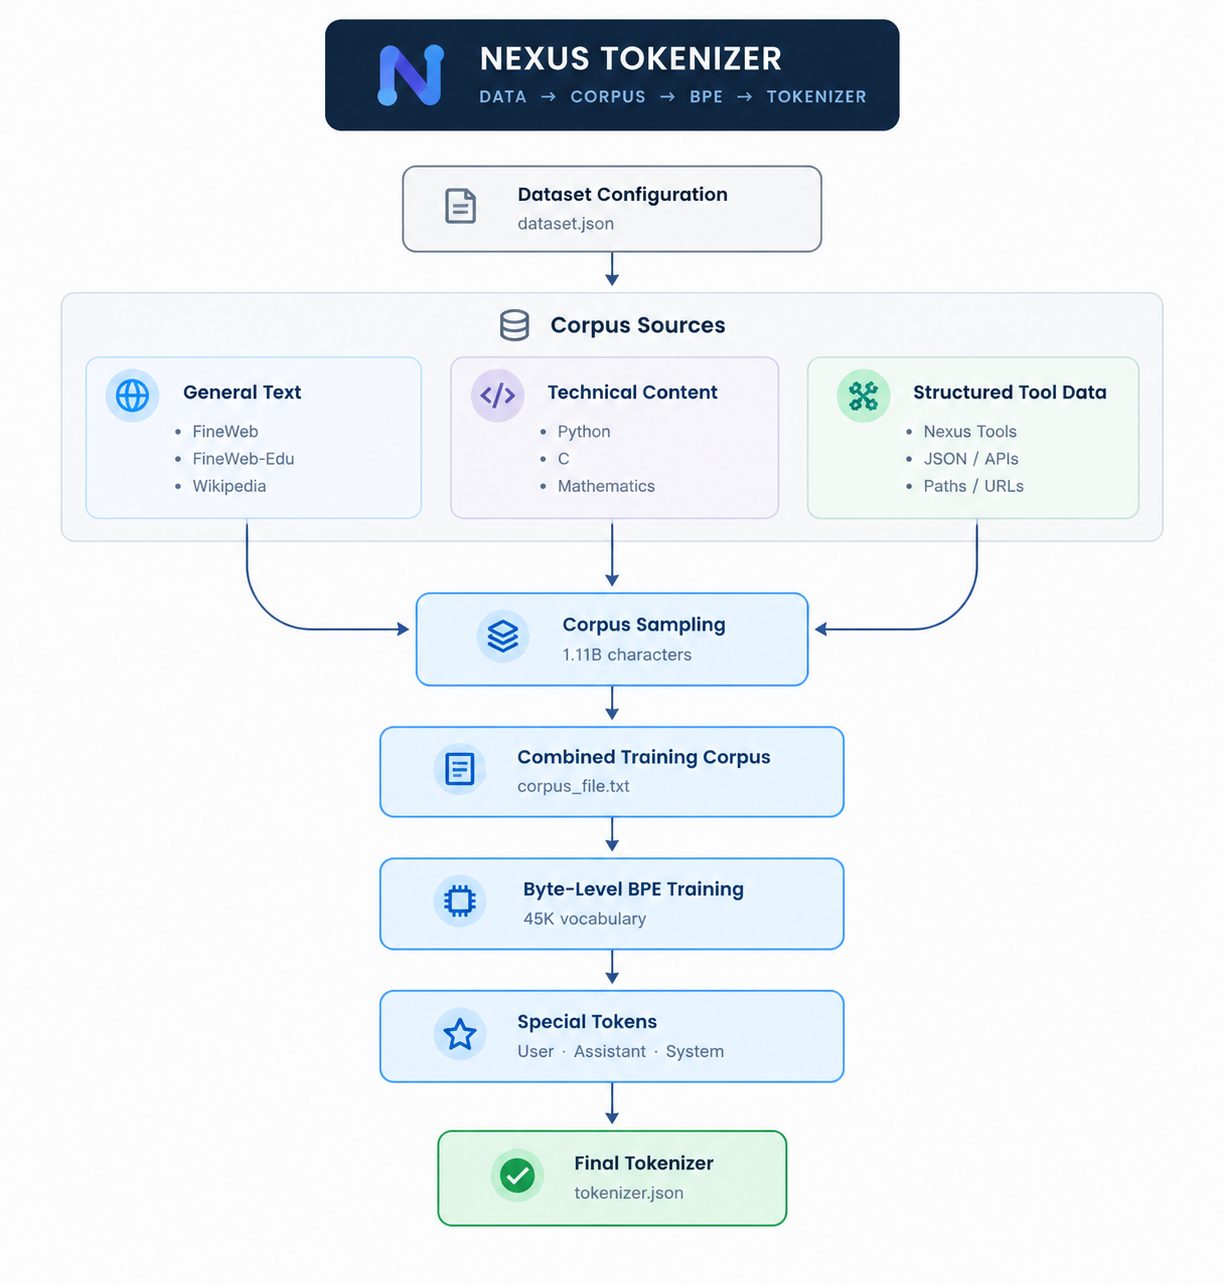
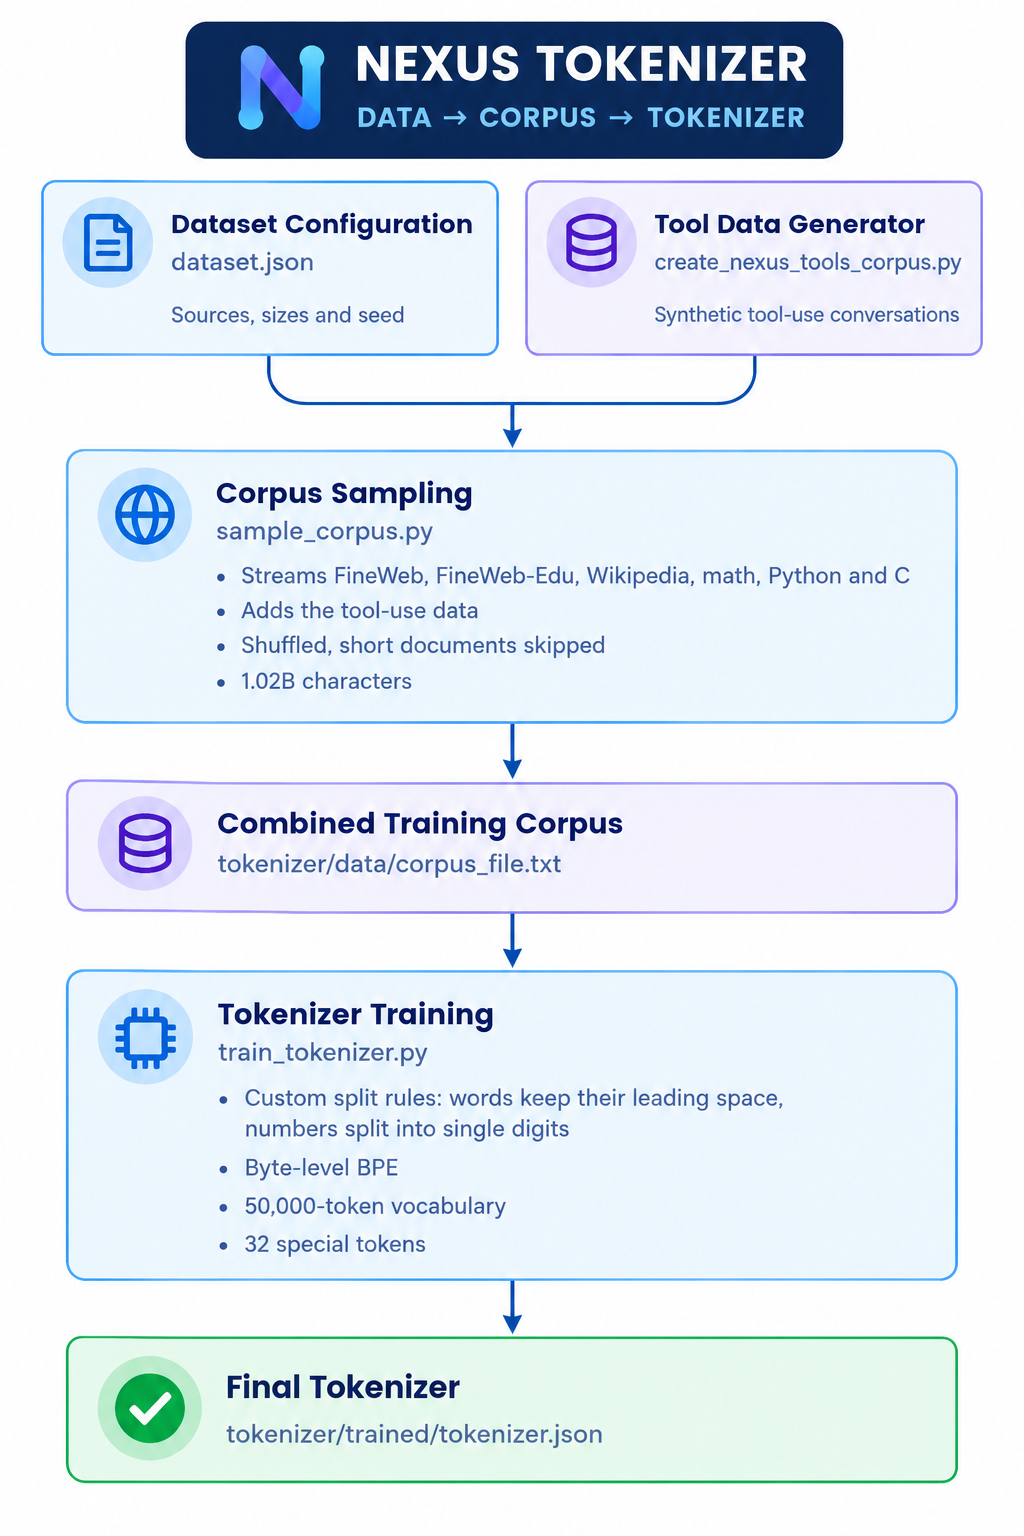
Update the tokenizer README!

diff --git a/tokenizer/README.md b/tokenizer/README.md
@@ -6,24 +6,8 @@ mathematics, and structured tool interactions.
 
 ## Pipeline
 
-```mermaid
-flowchart TD
-    A[Dataset Configuration<br/>dataset.json] --> B
-
-    subgraph B[Corpus Sources]
-        direction LR
-        B1[General Text<br/>FineWeb, FineWeb-Edu, Wikipedia]
-        B2[Technical Content<br/>Python, C, Mathematics]
-        B3[Structured Tool Data<br/>Nexus Tools, JSON/APIs, Paths/URLs]
-    end
-
-    B --> C[Corpus Sampling<br/>1.11B characters]
-    C --> D[Combined Training Corpus<br/>corpus_file.txt]
-    D --> E[Byte-Level BPE Training<br/>50K vocabulary]
-    E --> F[Special Tokens<br/>User, Assistant, System]
-    F --> G[Final Tokenizer<br/>tokenizer.json]
-```
-
+   ![Nexus Tokenizer Pipeline](./assets/tokenizer_pipeline.png)
+   
 ## Corpus
 
 The tokenizer is trained on a 1.11B-character corpus composed of:
